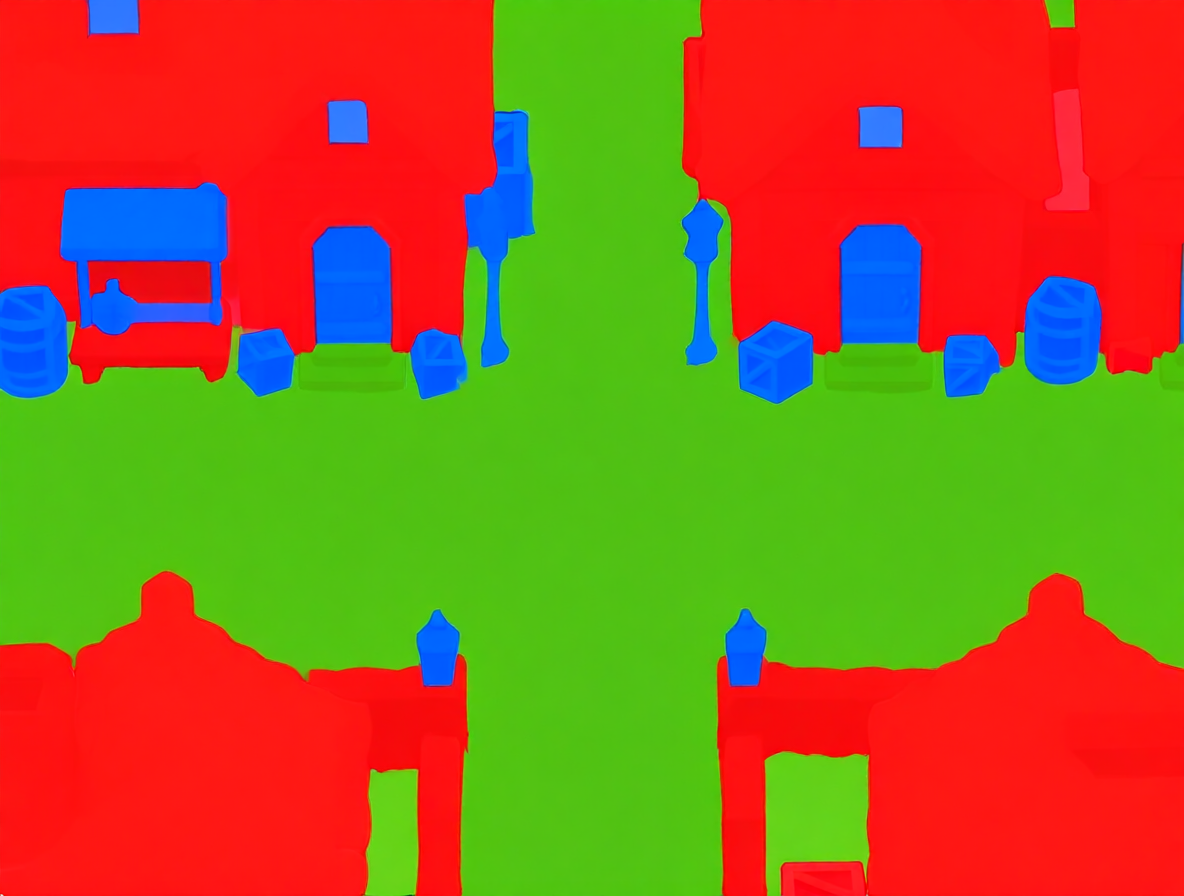
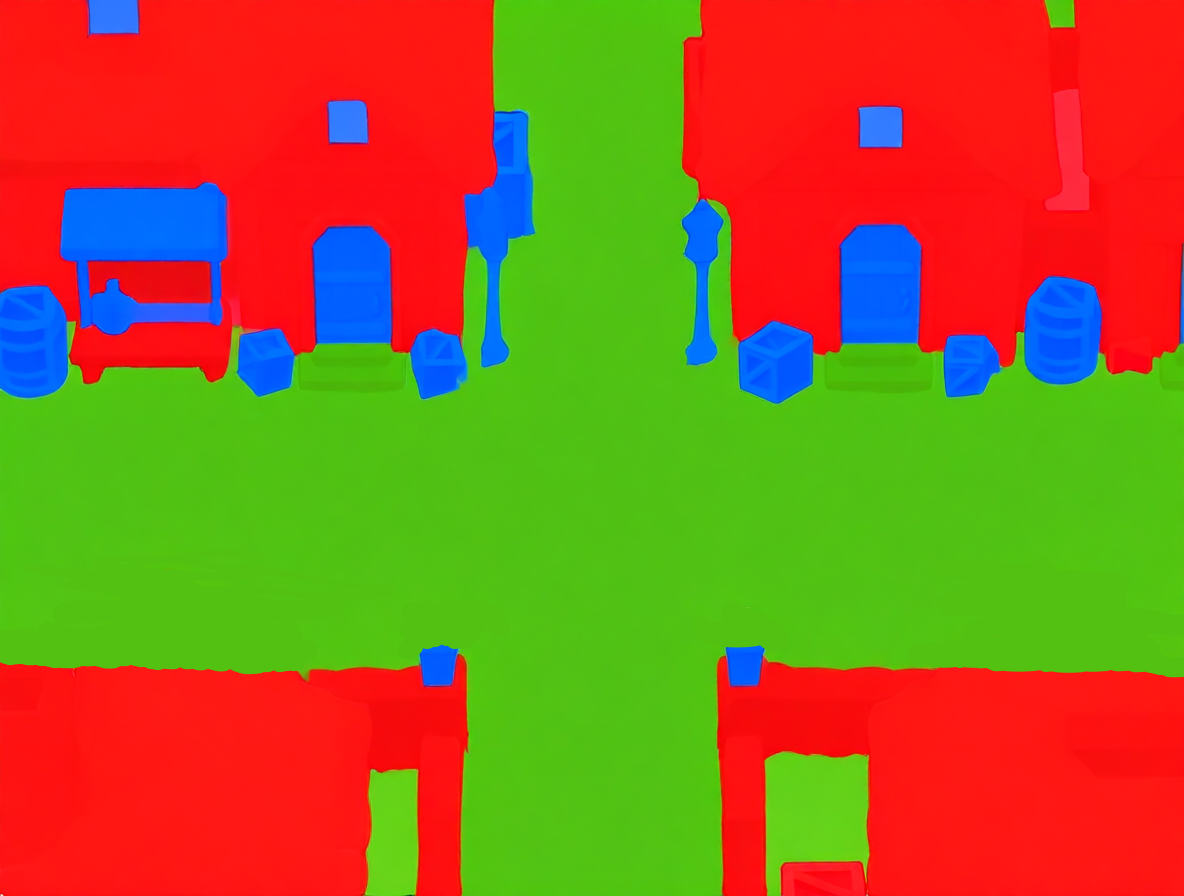
Maudif objet d'interation , et ajoute d'effet port de plant dans village TP dans foret.

diff --git a/game_map.py b/game_map.py
@@ -16,18 +16,21 @@ from settings import (
     INTERACT_CONTACT,
     INTERACT_BLUE_THRESHOLD,
     INTERACT_MIN_AREA,
+    INTERACT_MATCH_TOLERANCE,
     FG_MIN_AREA,
 )
 
 
 class GameMap:
     def __init__(self, background_path, mask_path,
-                 foreground_path=None, perspective=None):
+                 foreground_path=None, perspective=None,
+                 interactions=None):
         self.perspective = perspective or {
             "enabled": False,
             "top_scale": 1.0,
             "bottom_scale": 1.0,
         }
+        self.interactions = interactions or []
 
         try:
             original = pygame.image.load(
@@ -135,12 +138,29 @@ class GameMap:
             if el["box"].bottom > py:
                 screen.blit(el["surf"], (el["x0"], el["y0"]))
 
-    def _draw_interaction_layer(self, screen, player, time_ms=0):
-        """Teint bleu + halos agrandis.
+    def get_focused_object(self, player):
+        """Retourne l'objet interactif le plus proche du joueur
+        (dans la portée), ou None s'il n'y en a pas."""
+        if player is None or not self.interact_objects:
+            return None
+        px, py = player.x, player.y
+        best = None
+        best_d = INTERACT_PROXIMITY
+        for obj in self.interact_objects:
+            d = math.hypot(px - obj["box"].centerx,
+                           py - obj["box"].centery)
+            if d < best_d:
+                best_d = d
+                best = obj
+        return best
 
-        Redessé au-dessus du joueur et de la FG pour garantir que la
-        couleur d'interaction reste visible, y compris pour les éléments
-        de premier plan.
+    def _draw_interaction_layer(self, screen, player, time_ms=0):
+        """Teint bleu + halos.
+
+        Seul l'objet le plus proche (dans la portée) CLINOTTE
+        (halo pulsant). Les autres objets en portée ont un halo
+        statique, plus discret. Le teint bleu de base reste
+        toujours visible sur tous les objets.
         """
         screen.blit(self.interact_layer, (0, 0))
 
@@ -149,14 +169,42 @@ class GameMap:
 
         t = time_ms * 0.004
         px, py = player.x, player.y
+        objs = self.interact_objects
 
-        for i, obj in enumerate(self.interact_objects):
-            strength = self._proximity_strength(obj["box"], px, py)
-            if strength <= 0.0:
-                continue
+        # 1) Objet focalisé : le plus proche dans la portée.
+        focus_index = -1
+        focus_d = INTERACT_PROXIMITY
+        for i, obj in enumerate(objs):
+            d = math.hypot(px - obj["box"].centerx,
+                           py - obj["box"].centery)
+            if d < focus_d:
+                focus_d = d
+                focus_index = i
+        if focus_index == -1:
+            return
 
-            pulse = 0.70 + 0.30 * math.sin(t + i * 0.7)
+        # 2) Halo PULSANT (clinotage) pour l'objet focalisé uniquement.
+        focus = objs[focus_index]
+        strength = self._proximity_strength(focus["box"], px, py)
+        if strength > 0.0:
+            pulse = 0.70 + 0.30 * math.sin(t + focus_index * 0.7)
             alpha = round(255 * strength * pulse)
+            if alpha > 0:
+                focus["glow"].set_alpha(alpha)
+                screen.blit(focus["glow"], focus["glow_pos"])
+
+        # 3) Halos STATIQUES (pas de pulsation) pour les autres objets
+        #    présents dans la portée.
+        static_factor = 0.45
+        for i, obj in enumerate(objs):
+            if i == focus_index:
+                continue
+            d = math.hypot(px - obj["box"].centerx,
+                           py - obj["box"].centery)
+            if d >= INTERACT_PROXIMITY:
+                continue
+            strength = self._proximity_strength(obj["box"], px, py)
+            alpha = round(255 * strength * static_factor)
             if alpha > 0:
                 obj["glow"].set_alpha(alpha)
                 screen.blit(obj["glow"], obj["glow_pos"])
@@ -324,7 +372,25 @@ class GameMap:
                     "box": pygame.Rect(x0, y0, bw, bh),
                     "glow": glow,
                     "glow_pos": glow_pos,
+                    "action": None,
+                    "dest": None,
                 })
+
+        # Associer un comportement à chaque objet bleu : le centre de
+        # l'objet le plus proche du "pos" de chaque interaction.
+        for obj in objects:
+            cx, cy = obj["box"].centerx, obj["box"].centery
+            best = None
+            best_d = INTERACT_MATCH_TOLERANCE
+            for inter in self.interactions:
+                ipx, ipy = inter["pos"]
+                d = math.hypot(cx - ipx, cy - ipy)
+                if d < best_d:
+                    best_d = d
+                    best = inter
+            if best is not None:
+                obj["action"] = best.get("action")
+                obj["dest"] = best.get("dest")
 
         return base_layer, objects
 

diff --git a/main.py b/main.py
@@ -11,6 +11,7 @@ from settings import (
 )
 from player import Player
 from world import World
+from behaviors import BEHAVIORS, go_to_map
 
 
 
@@ -95,6 +96,27 @@ def main():
                     # Le monde gère lui-même le changement de carte.
                     world.next_map(player)
 
+                elif event.key == pygame.K_i:
+                    # Interagir avec l'objet focalisé (le plus proche
+                    # dans la portée).
+                    focus = game_map.get_focused_object(player)
+                    if focus is None:
+                        print("Aucun objet interactif à portée (I).")
+                        continue
+                    if focus.get("action") is not None:
+                        beh = BEHAVIORS.get(focus["action"])
+                        if beh is None:
+                            print(
+                                f"Comportement inconnu : "
+                                f"{focus['action']}"
+                            )
+                            continue
+                        if beh(player, world, game_map):
+                            game_map = world.game_map
+                    elif focus.get("dest") is not None:
+                        if go_to_map(player, world, focus["dest"]):
+                            game_map = world.game_map
+
         # 2. Mise à jour du jeu
         keys = pygame.key.get_pressed()
 
@@ -123,19 +145,28 @@ def main():
         # 4. Affichage des informations
         character_name = CHARACTERS[character_index]["name"]
         map_name = world.current_map_data["name"]
+        focus = game_map.get_focused_object(player)
+
+        if focus is not None:
+            target = focus.get("action") or focus.get("dest")
+            focus_line = f"  -> agir (I) sur : {target}"
+        else:
+            focus_line = None
 
         info = [
             f"Personnage : {character_name} (P pour changer)",
             f"Carte : {map_name} (M pour changer)",
-            "Flèches : déplacer | E : collisions",
+            "Flèches : déplacer | E : collisions | I : interagir",
             (
                 "Collisions : "
                 f"{'ACTIVÉES' if collisions_enabled else 'DÉSACTIVÉES'}"
             ),
-"Objets bleus : interactifs (s'approche : mise en avant)",
+            "Objets bleus : interactifs (I : agir sur le plus proche)",
             "Prémiplan (FG) : devant le joueur derrière un élément",
             "Échap : quitter",
         ]
+        if focus_line is not None:
+            info.insert(len(info) - 1, focus_line)
 
         for i, line in enumerate(info):
             label = font.render(

diff --git a/behaviors.py b/behaviors.py
@@ -1,0 +1,49 @@
+"""Comportements interactifs.
+
+Chaque objet bleu d'une carte peut être associé à un comportement
+défini dans settings.py (liste "interactions" de la carte). Un
+comportement est une fonction :
+
+    def <nom>(player, world, game_map) -> bool
+
+Elle reçoit le joueur, le monde et la carte courante, et retourne
+True si l'action a été appliquée, False sinon.
+
+Pour ajouter un comportement :
+    1. Définir une fonction ici.
+    2. L'ajouter au dictionnaire BEHAVIORS.
+    3. La citer dans settings.py (clé "action" d'une interaction).
+
+Alternative sans code (simple téléportation) :
+    {"pos": [x, y], "dest": "Forêt"}  ->  va sur la carte nommée.
+"""
+
+
+def go_to_map(player, world, name):
+    """Changement de carte par nom de carte (insensible à la casse).
+
+    Retourne True si la carte a été chargée.
+    """
+    target = (name or "").lower().strip()
+    for i, data in enumerate(world.maps):
+        if data.get("name", "").lower().strip() == target:
+            return world.change_map(i, player)
+    print(f"Comportement : carte « {name} » non trouvée.")
+    return False
+
+
+def go_forest(player, world, game_map):
+    """Test : teleporte le joueur sur la carte Forêt."""
+    return go_to_map(player, world, "Forêt")
+
+
+def go_village(player, world, game_map):
+    """Test : teleporte le joueur sur la carte Village."""
+    return go_to_map(player, world, "Village")
+
+
+# Registre des comportements (clé -> fonction).
+BEHAVIORS = {
+    "go_forest": go_forest,
+    "go_village": go_village,
+}

diff --git a/settings.py b/settings.py
@@ -29,6 +29,15 @@ MAPS = [
         # Couche de premier plan optionnelle (éléments devant le joueur).
         "foreground": BASE_DIR / "asset/world/vil1FG.png",
 
+        # Comportements des objets bleus :
+        #   "pos"     = centre de l'objet (px, coordonnées fenêtre).
+        #   "action"  = clé dans behaviors.BEHAVIORS (comportement custom),
+        #               OU "dest" = nom de carte pour un téléport direct.
+        "interactions": [
+            # Grand bâtiment (left) -> change de carte vers la Forêt (test).
+            {"pos": [356, 305], "action": "go_forest"},
+        ],
+
         "perspective": {
             "enabled": True,
             "top_scale": 0.70,
@@ -128,10 +137,13 @@ INTERACT_BASE_ALPHA = 30
 INTERACT_GLOW_ALPHA = 100
 INTERACT_GLOW_PAD = 14
 INTERACT_MAX_SCALE = 0.20
-INTERACT_PROXIMITY = 70.0
+INTERACT_PROXIMITY = 80.0
 INTERACT_CONTACT = 45.0
-INTERACT_BLUE_THRESHOLD = 96
+INTERACT_BLUE_THRESHOLD = 100
 INTERACT_MIN_AREA = 100
+# Distance max (px) pour associer un comportement à un objet bleu :
+# le centre de l'objet le plus proche du "pos" de l'interaction.
+INTERACT_MATCH_TOLERANCE = 90.0
 
 # --- Couche de premier plan (FG) ---
 # Surface min de composante FG conservée (filtre le bruit).

diff --git a/player.py b/player.py
@@ -198,7 +198,7 @@ class Player:
             (width, height),
         )
 
-        #print("Position du joueur x , y :", self.x, self.y) # ------------------------------------
+        print("Position du joueur x , y :", self.x, self.y) # ------------------------------------
         # Le point (x, y) reste ancré au niveau des pieds.
         sprite_x = round(self.x - sprite.get_width() / 2)
         sprite_y = round(self.y - sprite.get_height())

diff --git a/world.py b/world.py
@@ -37,6 +37,7 @@ class World:
             data["mask"],
             data.get("foreground"),
             data.get("perspective"),
+            data.get("interactions"),
         )
 
     def find_spawn(self, game_map, radius=COLLISION_RADIUS):
